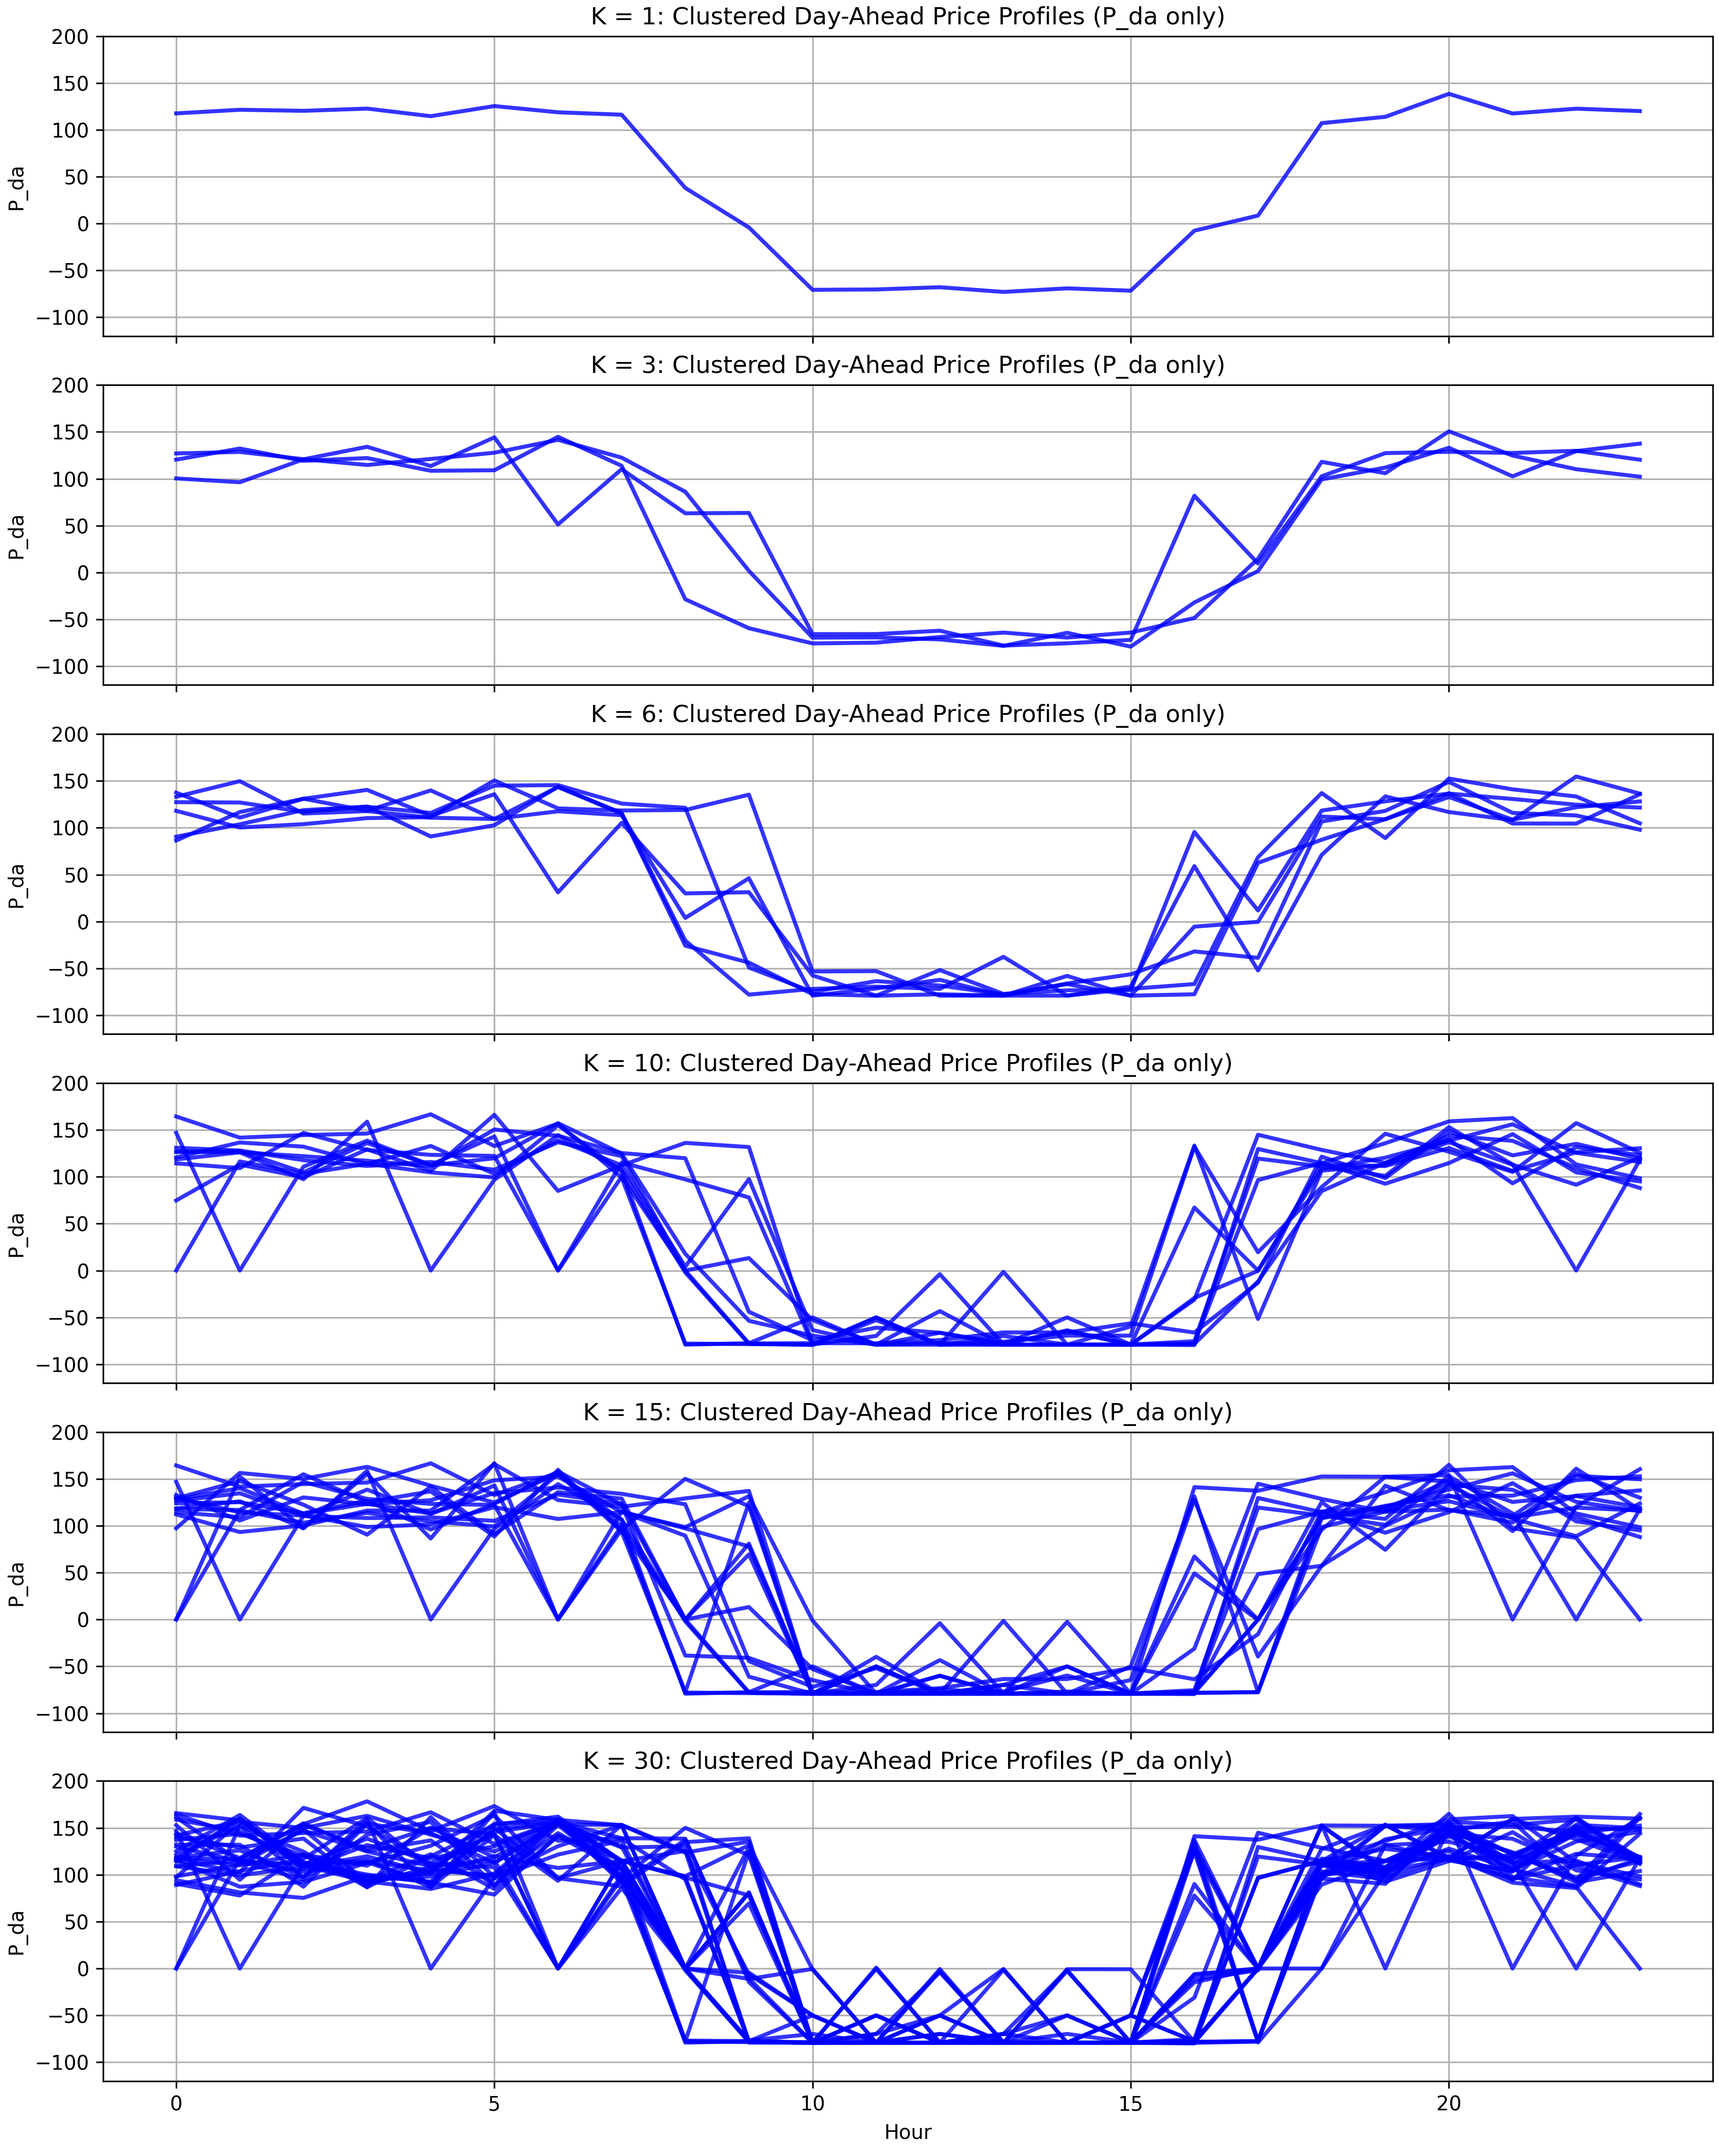
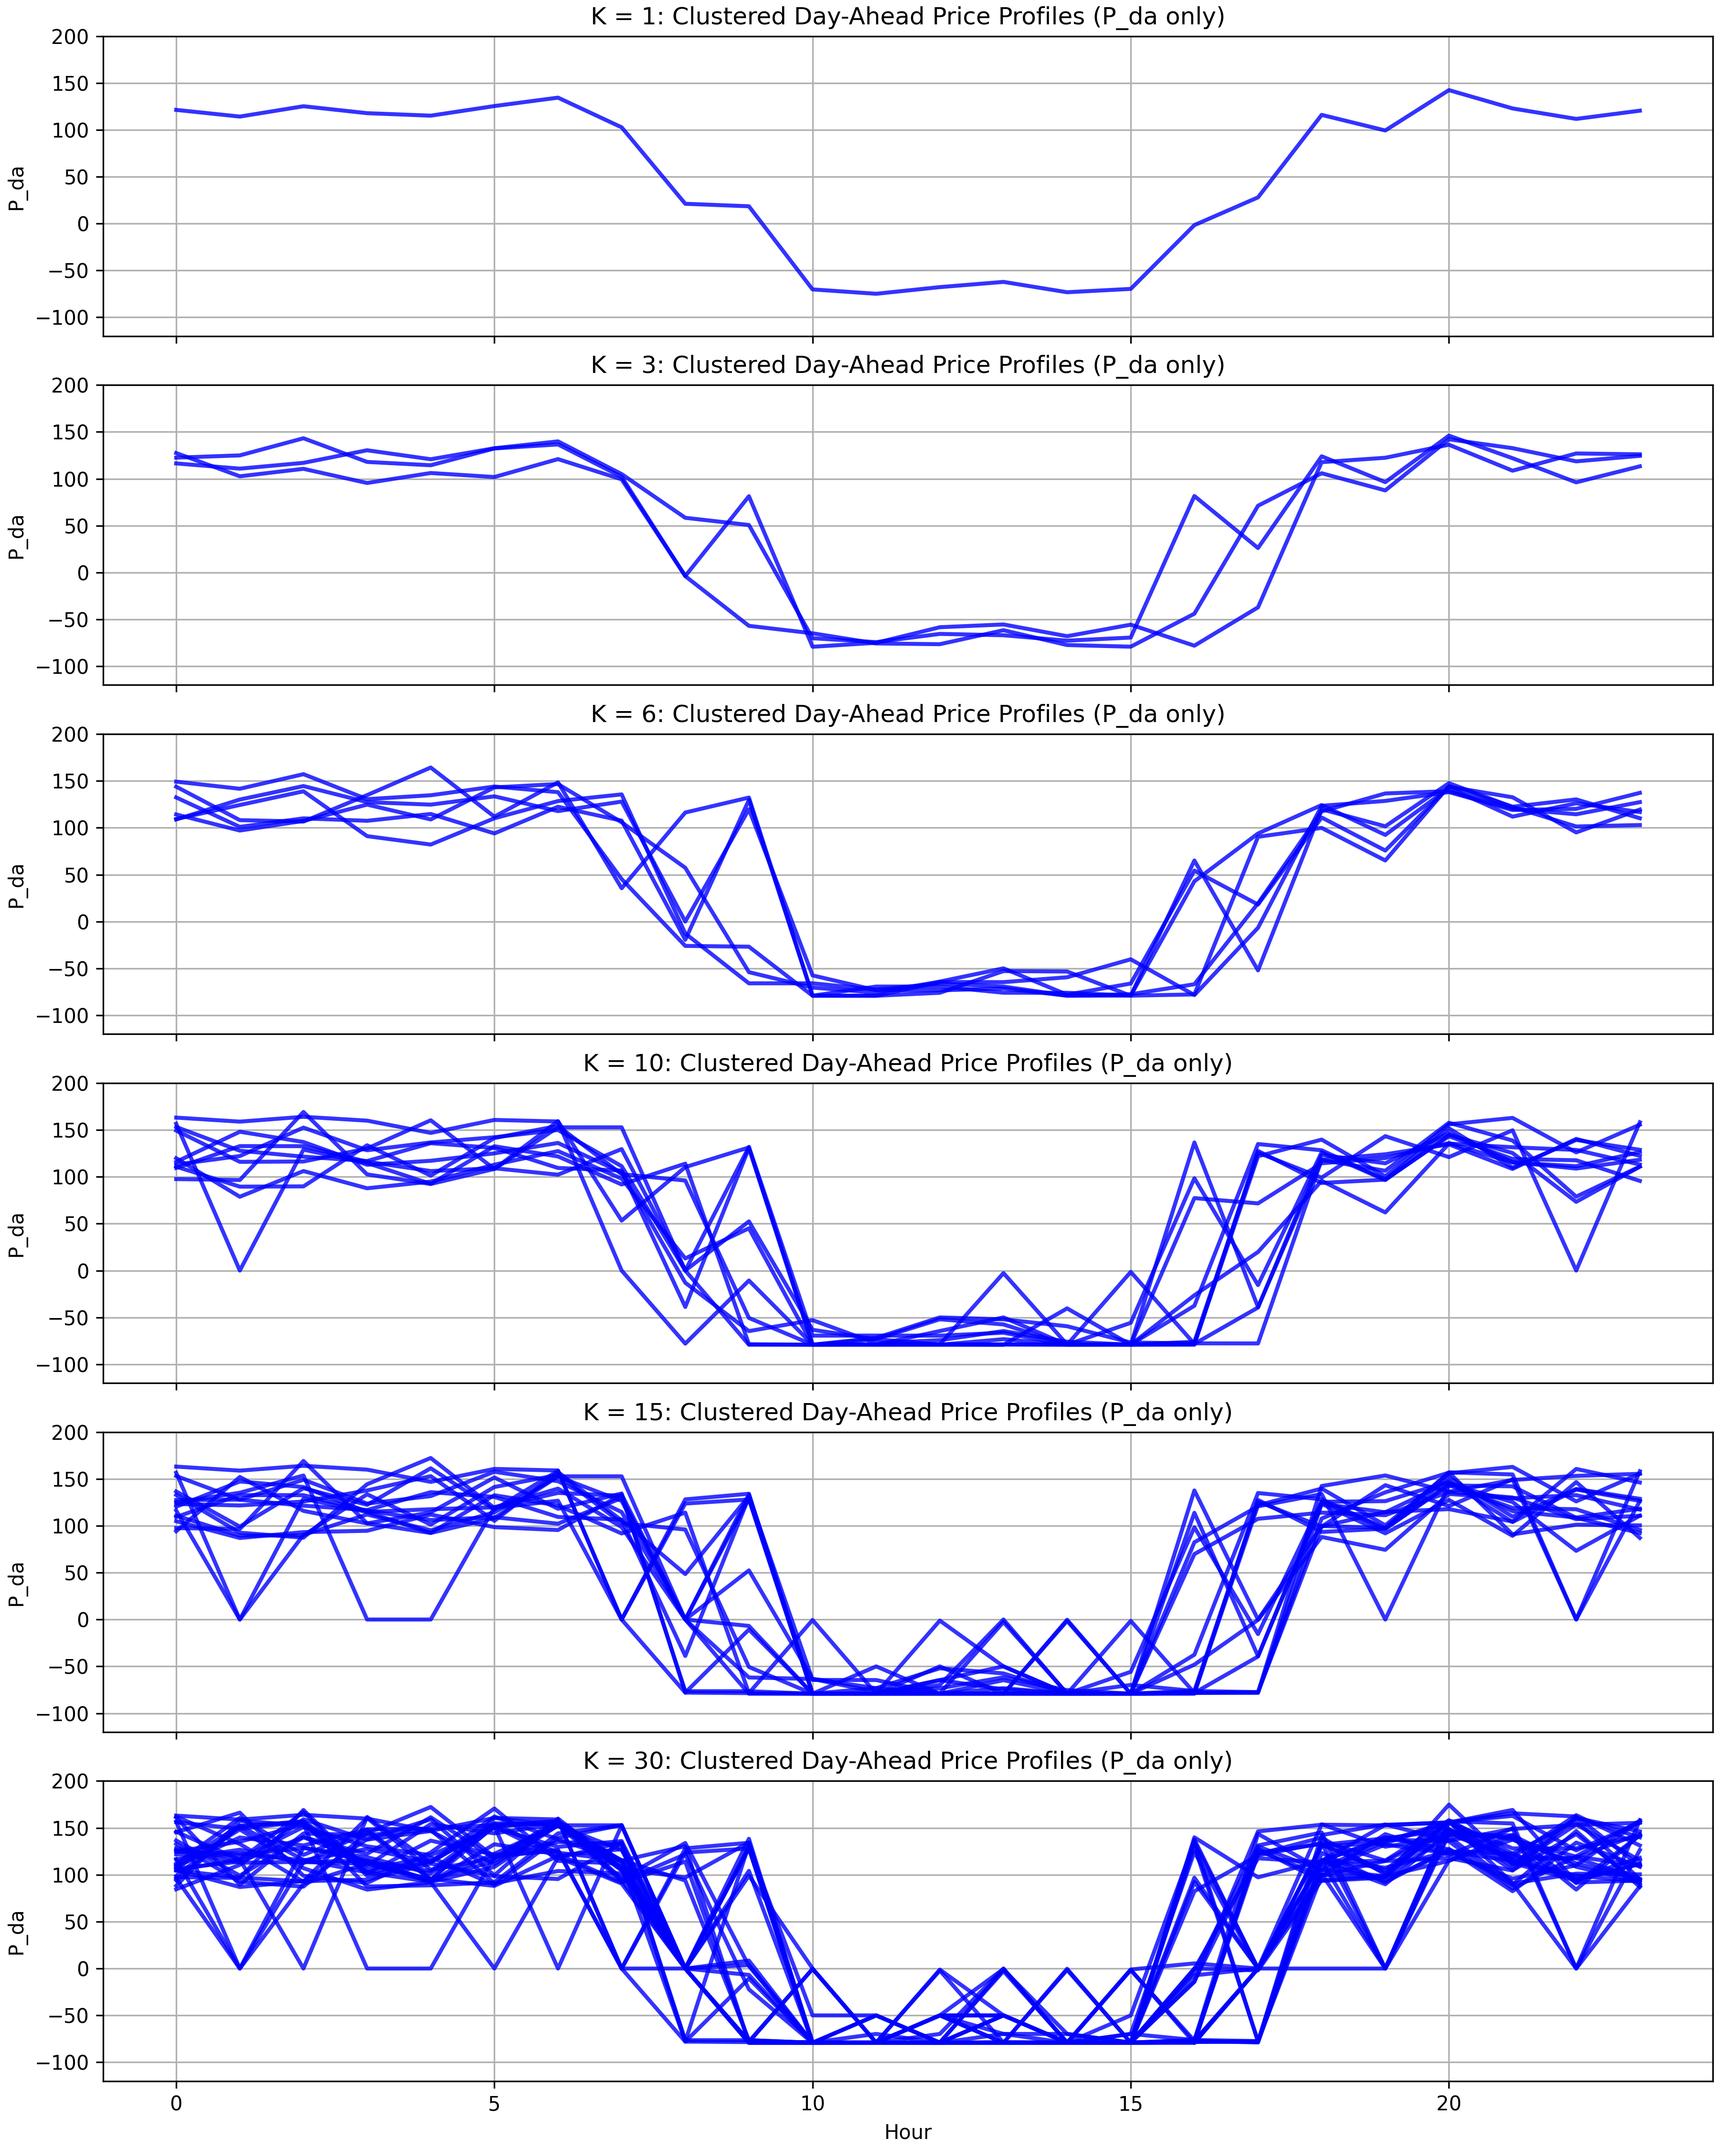
260218 saving before changing q_da, id settings

diff --git a/Stochastic_Approach/Scenarios/Scenario.py b/Stochastic_Approach/Scenarios/Scenario.py
@@ -221,7 +221,7 @@ Q_c_f_X_values = np.array([f_X(x) for x in Q_c_x_values])
 
 def sample_curtailment_error(p):
     if np.random.rand() < p:
-        return np.random.uniform(-1.0, 1.0)
+        return np.random.uniform(-0.5, 0.5)
     return 0.0
 
 
@@ -580,10 +580,10 @@ class scenario():
             
             ## sample one delta_Q_c
             if P_da < 0 and P_rt[0] < -P_r + 40:
-                delta_Q_c = sample_curtailment_error(1.0)
+                delta_Q_c = sample_curtailment_error(0.8)
             
             elif P_da < 0 and P_rt[0] >= -P_r + 40 and P_rt[0] < 0:
-                delta_Q_c = sample_curtailment_error(0.6)
+                delta_Q_c = sample_curtailment_error(0.5)
             
             elif P_da < 0 and P_rt[0] >= 0 and P_rt[0] < 20:
                 delta_Q_c = sample_curtailment_error(0.2)
@@ -695,7 +695,7 @@ if __name__ == '__main__':
         
     price_mode = 'sunny'  # 'cloudy', 'normal', 'sunny'
             
-    scenario_generator = scenario(10, E_0)
+    scenario_generator = scenario(3, E_0)
         
     sampled_P_da = np.array(scenario_generator.sample_multiple_P_da(evaluation_num))
             
@@ -735,7 +735,7 @@ if __name__ == '__main__':
             np.savetxt(csv_path, rows, delimiter=',')
     
     
-    fig, axes = plt.subplots(len(K_list), 1, figsize=(10, 4 * len(K_list)), sharex=True)
+    """fig, axes = plt.subplots(len(K_list), 1, figsize=(10, 4 * len(K_list)), sharex=True)
     hours = np.arange(24)
 
     for i, (k, scenario_trees) in enumerate(zip(K_list, Reduced_scenario_trees)):
@@ -772,7 +772,7 @@ if __name__ == '__main__':
         ax.set_ylabel("Price")
         ax.grid(True)
         plt.tight_layout()
-        plt.show()
+        plt.show()"""
     
     
     save_dir = f'./Stochastic_Approach/Scenarios/P_da_{price_mode}'
@@ -782,7 +782,7 @@ if __name__ == '__main__':
         k = K_list[i]
         csv_path = os.path.join(save_dir, f"K{k}.csv")
         np.savetxt(csv_path, P_da_list, delimiter=',')
-    
+    """
     fig, axes = plt.subplots(len(K_list), 1, figsize=(12, 2.5 * len(K_list)), sharex=True, constrained_layout=True)
     hours = np.arange(24)
 
@@ -818,6 +818,6 @@ if __name__ == '__main__':
         ax.grid(True)
     axes[-1].set_xlabel("Hour")
     plt.savefig('./Stochastic_Approach/Scenarios/P_da_only_byK.png', dpi=300)
-    plt.close(fig)
+    plt.close(fig)"""
         
  

diff --git a/Stochastic_Approach/NestedBenders/PSDDiP_LP.py b/Stochastic_Approach/NestedBenders/PSDDiP_LP.py
@@ -321,6 +321,8 @@ for k, scenario_trees in zip(K_list, Reduced_scenario_trees):
     plt.show()
 
 
+
+
 ## Parameters 
 
 T = 24
@@ -3755,7 +3757,7 @@ if __name__ == "__main__":
         alpha=0.95,
         tol=1e-4,
         breakstage_selection=10,
-        stopping_counter_limit=9,
+        stopping_counter_limit=10,
         approx_mode=approx_mode,
     )
 
@@ -3823,7 +3825,7 @@ if __name__ == "__main__":
  
  
     ## 3. Run each PSDDiP for K in K_list to get psi_DA and save as npy
-    """    
+    """ 
     for k, K in enumerate([K for K in K_list if K <= 30]):
         
         psddip_multi_da = PSDDiPModel(
@@ -3837,7 +3839,7 @@ if __name__ == "__main__":
             alpha = 0.95,
             tol=1e-4,
             breakstage_selection=10,
-            stopping_counter_limit=4,
+            stopping_counter_limit=6,
             approx_mode=approx_mode,
         )
         
@@ -3856,8 +3858,8 @@ if __name__ == "__main__":
             allow_pickle=True
         )
 
-    print("✅ psd_DA saved as .npy:")
-    """
+    print("✅ psd_DA saved as .npy:")"""
+    
  
     ## 4. Notify done via plot
     

diff --git a/Stochastic_Approach/NestedBenders/Solutions_LP/Solutions_LP.py b/Stochastic_Approach/NestedBenders/Solutions_LP/Solutions_LP.py
@@ -597,13 +597,13 @@ if __name__ == "__main__":
     # 1. Plotting solutions
     # ----------------------------
     
-    plot_all_from_file(
+    """plot_all_from_file(
         price_setting=price_setting,
         pause=False,
         da_ylim=(-1000, 32000),
         id_ylim=None,
         overlay_mean=False
-    )
+    )"""
 
     SELECTED = [
         #"Rolling → SDDiP",
